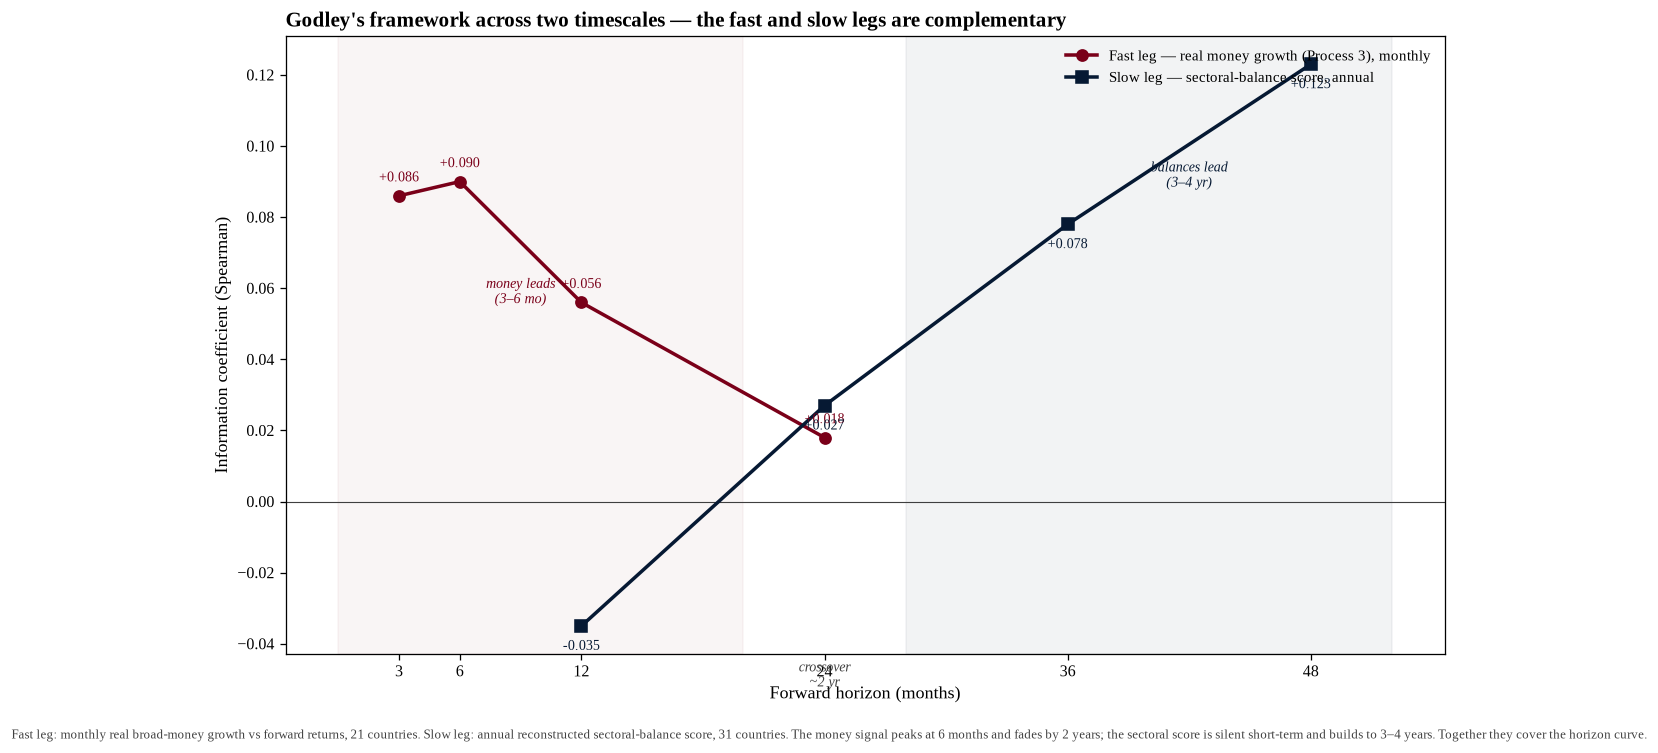
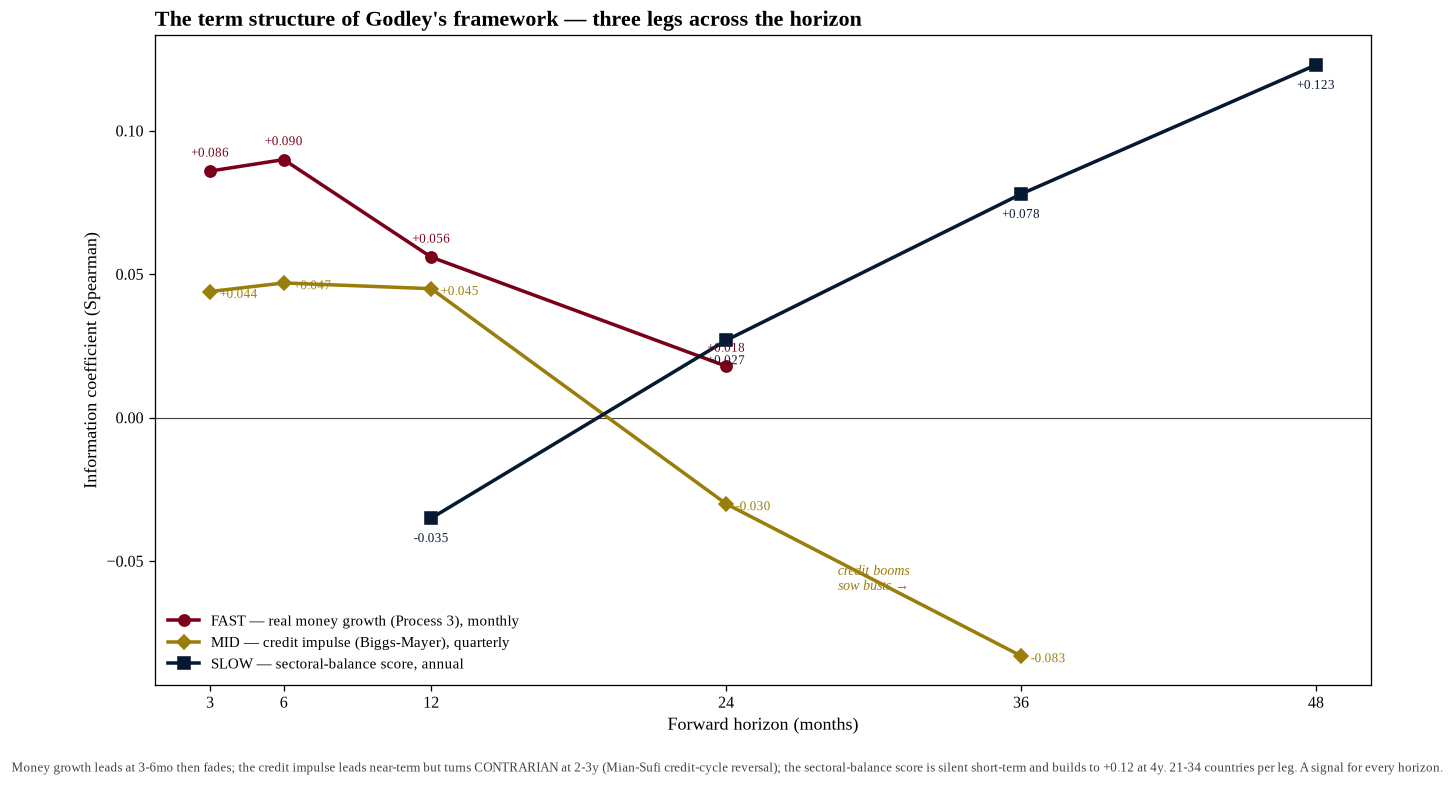
Add quarterly credit impulse (Biggs-Mayer) -- the middle rung of the frequency ladder
Completes Godley's frequency ladder with the quarterly leg, revealing a full
three-horizon term structure of the framework.

sources/quarterly.py: BIS long series on total credit to the private
non-financial sector, %GDP, quarterly (DBnomics BIS/WS_TC, Q.<CTY>.P.A.M.770.A),
36 countries, history to 1947 for the US.

highfreq.py:
- credit_impulse(): net_lending = 4q change in credit/GDP (Godley Process 2);
  credit_impulse = its acceleration (Biggs-Mayer 2nd derivative).
- backtest_quarterly(): pooled IC at 3/6/12/24/36-month horizons, 34 countries.
- term_structure(): plain-language verdict on all three legs.

RESULT -- the credit impulse is near-term positive but medium-term CONTRARIAN:
  3m +0.044, 6m +0.047, 12m +0.045, then 24m -0.030, 36m -0.083.
This is the credit-boom-sows-bust signature (Mian-Sufi-Verner): a credit surge
lifts returns for a year, then predicts LOWER returns at 2-3y. It explains why
the annual score's credit component had ~zero IC, and it is NOT redundant with
the money signal -- it adds the medium-term warning.

THE FULL GODLEY TERM STRUCTURE (frequency_chart.png, now 3 legs):
  FAST  real money growth   +0.09 at 6m, fades by 2y
  MID   credit impulse       +0.05 near-term, flips to -0.08 at 3y (warning)
  SLOW  sectoral balances    silent short, +0.12 at 4y
Use money+credit for <1y momentum, flip credit as a 2-3y warning, sectoral
score for 3-4y direction. A signal for every horizon.

https://claude.ai/code/session_01SuBBE6vrhmvyqx1s5eTi5L

diff --git a/scanner/sources/quarterly.py b/scanner/sources/quarterly.py
@@ -1,0 +1,93 @@
+"""
+Quarterly credit loader -- the middle rung of Godley's frequency ladder.
+
+BIS long series on total credit to the private non-financial sector, %GDP,
+quarterly, keyless via DBnomics (BIS/WS_TC, series key Q.<CTY>.P.A.M.770.A --
+private non-financial borrowers, all lenders, market value, % of GDP, break-
+adjusted). History to the 1940s-60s for the majors.
+
+From it we build the two quarterly SFC measures Godley's Seven Processes name:
+  Process 2  net lending to the private sector = 4q change in credit/GDP
+  credit impulse (Biggs-Mayer) = the acceleration of that flow (2nd derivative)
+
+These fill the 1-2 year window where the monthly money signal has faded and the
+annual sectoral score has not yet built.
+"""
+
+from __future__ import annotations
+
+import json
+import time
+import urllib.request
+from pathlib import Path
+
+import pandas as pd
+
+_CACHE = Path(__file__).resolve().parent.parent / "_cache" / "quarterly.json"
+
+# Panel ISO2 -> BIS reporting code (mostly ISO2; a few differ).
+ISO2_TO_BIS = {
+    "US": "US", "GB": "GB", "DE": "DE", "JP": "JP", "KR": "KR", "CN": "CN",
+    "BR": "BR", "MX": "MX", "IN": "IN", "ID": "ID", "PL": "PL", "HU": "HU",
+    "CZ": "CZ", "TR": "TR", "SA": "SA", "ZA": "ZA", "AU": "AU", "CA": "CA",
+    "NZ": "NZ", "FR": "FR", "IT": "IT", "ES": "ES", "PT": "PT", "GR": "GR",
+    "NL": "NL", "BE": "BE", "AT": "AT", "FI": "FI", "DK": "DK", "SE": "SE",
+    "CH": "CH", "IE": "IE", "NO": "NO", "RU": "RU", "CL": "CL", "CO": "CO",
+    "IL": "IL", "TH": "TH", "MY": "MY",
+}
+_BIS_TO_ISO2 = {v: k for k, v in ISO2_TO_BIS.items()}
+
+
+def _q_to_ts(q: str) -> pd.Timestamp:
+    """'2024-Q4' -> quarter-end Timestamp."""
+    y, qq = q.split("-Q")
+    return pd.Timestamp(int(y), int(qq) * 3, 1) + pd.offsets.MonthEnd(1)
+
+
+def _db_batch(bis_codes: list[str], tries: int = 3) -> dict:
+    mask = "+".join(bis_codes)
+    url = (f"https://api.db.nomics.world/v22/series/BIS/WS_TC/"
+           f"Q.{mask}.P.A.M.770.A?observations=1&limit=200")
+    for i in range(tries):
+        try:
+            req = urllib.request.Request(url, headers={"User-Agent": "godley-scanner/1.0"})
+            with urllib.request.urlopen(req, timeout=45) as r:
+                d = json.load(r)
+            out = {}
+            for s in d["series"]["docs"]:
+                cty = s["series_code"].split(".")[1]
+                out[cty] = {p: float(v) for p, v in zip(s["period"], s["value"])
+                            if v is not None and v == v}
+            return out
+        except Exception:
+            time.sleep(2.0 * (i + 1))
+    return {}
+
+
+def refresh(isos: list[str], polite: float = 1.2) -> dict:
+    _CACHE.parent.mkdir(exist_ok=True)
+    store = json.loads(_CACHE.read_text()) if _CACHE.exists() else {}
+    codes = [ISO2_TO_BIS[i] for i in isos if i in ISO2_TO_BIS and i not in store]
+    for j in range(0, len(codes), 10):
+        res = _db_batch(codes[j:j + 10])
+        for bis, series in res.items():
+            iso2 = _BIS_TO_ISO2.get(bis)
+            if iso2 and series:
+                store[iso2] = series
+        _CACHE.write_text(json.dumps(store))
+        time.sleep(polite)
+    return store
+
+
+def load() -> dict:
+    return json.loads(_CACHE.read_text()) if _CACHE.exists() else {}
+
+
+def credit_gdp(iso2: str) -> pd.Series | None:
+    """Private non-financial credit / GDP (%), quarterly, indexed by quarter-end."""
+    store = load()
+    if iso2 not in store:
+        return None
+    s = pd.Series(store[iso2])
+    s.index = [_q_to_ts(q) for q in s.index]
+    return s.sort_index()

diff --git a/scanner/highfreq.py b/scanner/highfreq.py
@@ -26,6 +26,7 @@ import pandas as pd
 
 from .sources import monthly as MO
 from .sources import prices as PX
+from .sources import quarterly as QT
 from .archetypes import lookup, COUNTRIES
 
 
@@ -112,6 +113,80 @@ def backtest(horizons_m=(3, 6, 12, 24)) -> dict:
         out[f"IC_{h}m"] = round(float(np.mean(ics)), 3) if ics else None
         out[f"n_{h}m"] = len(ics)
     return out
+
+
+# ---------------------------------------------------------------------------
+# QUARTERLY -- the middle rung: credit impulse (Biggs-Mayer) from BIS credit.
+# Fills the 1-2 year window where the monthly money signal has faded and the
+# annual sectoral score has not yet built.
+# ---------------------------------------------------------------------------
+
+def credit_impulse(iso: str) -> pd.DataFrame | None:
+    """
+    Quarterly credit measures from BIS private non-financial credit/GDP:
+      net_lending = 4q change in credit/GDP        (Godley Process 2)
+      credit_impulse = acceleration of that flow   (Biggs-Mayer 2nd derivative)
+    """
+    c = QT.credit_gdp(iso)
+    if c is None or len(c) < 24:
+        return None
+    flow = c.diff(4)                    # net new lending to private, %GDP (Process 2)
+    impulse = flow.diff(4)             # Biggs-Mayer credit impulse
+    df = pd.DataFrame(index=c.index)
+    df["credit_gdp"] = c
+    df["net_lending"] = flow
+    df["credit_impulse"] = impulse
+    z = 0.4 * _ts_z(flow, 20) + 0.6 * _ts_z(impulse, 20)
+    df["credit_signal"] = z.rolling(2, min_periods=1).mean()
+    return df
+
+
+def backtest_quarterly(horizons_q=(1, 2, 4, 8, 12)) -> dict:
+    """Pooled IC of the quarterly credit impulse vs forward returns (in quarters)."""
+    frames = []
+    for c in COUNTRIES:
+        df = credit_impulse(c.iso)
+        px = PX.load().get(c.iso)
+        if df is None or not px:
+            continue
+        p = pd.Series(px)
+        p.index = pd.to_datetime(p.index + "-01")
+        pq = p.sort_index().resample("QE").last()
+        sig = df["credit_signal"].reindex(pq.index, method="ffill")
+        rec = pd.DataFrame({"sig": sig, "px": pq})
+        rec["iso"] = c.iso
+        frames.append(rec)
+    if not frames:
+        return {}
+    allrec = pd.concat(frames)
+    out = {"n_countries": allrec["iso"].nunique()}
+    for h in horizons_q:
+        ics = []
+        for iso, g in allrec.groupby("iso"):
+            g = g.sort_index()
+            fwd = g["px"].shift(-h) / g["px"] - 1.0
+            ic = _spearman(g["sig"], fwd, min_n=20)
+            if ic == ic:
+                ics.append(ic)
+        out[f"IC_{h*3}m"] = round(float(np.mean(ics)), 3) if ics else None
+    return out
+
+
+def term_structure() -> str:
+    """Plain-language verdict on Godley's three legs across the horizon."""
+    m = backtest((3, 6, 12, 24))
+    q = backtest_quarterly((1, 2, 4, 8, 12))
+    return (
+        "GODLEY TERM STRUCTURE -- three legs, three horizons:\n"
+        f"  FAST  real money growth (Process 3): peaks {m.get('IC_6m')} at 6m, "
+        f"fades to {m.get('IC_24m')} by 2y.\n"
+        f"  MID   credit impulse (Biggs-Mayer):  {q.get('IC_6m')} at 6m then "
+        f"turns CONTRARIAN {q.get('IC_24m')} at 2y, {q.get('IC_36m')} at 3y "
+        f"-- credit booms sow busts (Mian-Sufi).\n"
+        "  SLOW  sectoral-balance score:         silent short-term, builds to "
+        "+0.12 at 4y.\n"
+        "Use money+credit for <1y momentum, flip credit as a 2-3y warning, and "
+        "the sectoral score for the 3-4y direction.")
 
 
 def panel() -> pd.DataFrame:
